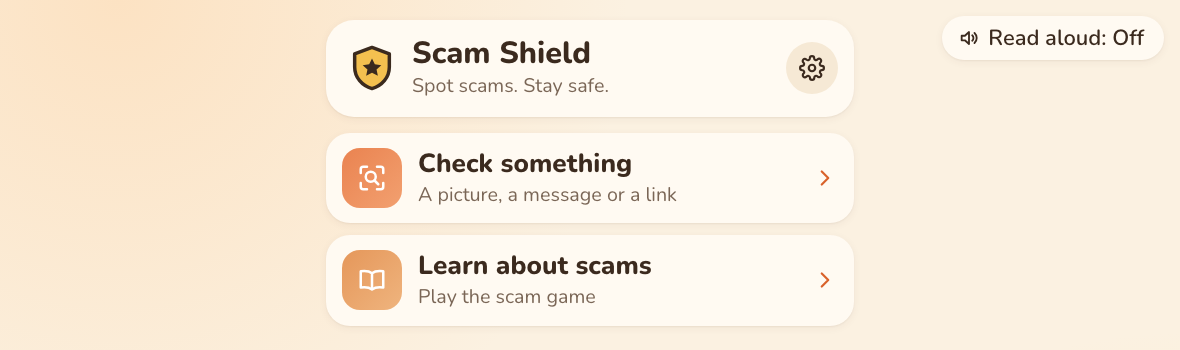
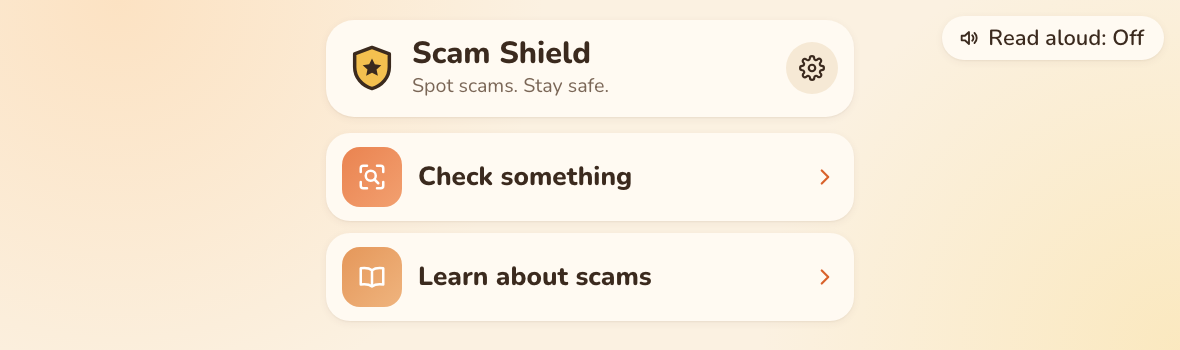
Docs: a shorter README that matches the live site
Removes the scams coming later, the open questions and the long details
(CLAUDE.md has them), adds the phone demo, the Learn screen and the
frameless scams on phones and tablets, and retakes the home screenshot
from the live site (the cards no longer have a line under them).

diff --git a/README.md b/README.md
@@ -1,28 +1,15 @@
 # Scam Shield: Stop, Check, Tell
 
-**Play it: [lukeyeh4.github.io/scam-shield](https://lukeyeh4.github.io/scam-shield/)**
+**Try it: [lukeyeh4.github.io/scam-shield](https://lukeyeh4.github.io/scam-shield/)** · [phone demo](https://lukeyeh4.github.io/scam-shield/demo.html) (the app in an iPhone frame, for showing on a computer)
 
-An app that helps kids aged 8–12 spot scams. It has two parts:
+An app that helps kids aged 8–12 spot scams, with two parts:
 
 - **Check something:** when a text, link, picture or website feels weird, kids check it with Shield Buddy and see the clues in kid words, with what to do next.
-- **Learn about scams:** a game where each scam looks like the real thing (a text from "Mom", a Google search, a YouTube Short). Kids pick what to do, see what happens, then learn the clues with **Stop, Check, Tell**.
+- **Learn about scams:** a game where each scam looks like the real thing. Kids pick what to do, see what happens, then learn the clues.
 
 ![The home screen: Check something and Learn about scams](docs/screenshots/app-home.png)
 
 **The key lesson:** don't do what the scam asks. Check it with Scam Shield, and show a grown-up.
-
-## Contents
-
-- [Stop, Check, Tell](#stop-check-tell)
-- [Check something](#check-something): [a link](#check-a-link), [a picture](#check-a-picture), [a message](#check-a-message)
-- [Learn about scams](#learn-about-scams): [how it plays](#how-it-plays), [the scams](#the-scams)
-- [Shield Buddy](#shield-buddy)
-- [For grown-ups](#for-grown-ups)
-- [Design](#design)
-- [Getting started](#getting-started) and [how it's built](#how-its-built)
-- [Open questions](#open-questions)
-
-## Stop, Check, Tell
 
 | | | In kid words |
 |---|---|---|
@@ -38,180 +25,62 @@ An app that helps kids aged 8–12 spot scams. It has two parts:
     <td width="50%"><img src="docs/screenshots/check-link-result.png" alt="A link result: This looks like a scam, with the clues Pretending to be Roblox and Words that tempt you"></td>
   </tr>
   <tr>
-    <td><b>Ask Shield Buddy.</b> Buddy asks what it is and opens the right checker. Kids can also type or say a question.</td>
-    <td><b>The result.</b> What was checked, with each clue marked and numbered, what to do, and the clues in a short list. Tap one to see why.</td>
+    <td>Shield Buddy asks what it is and opens the right checker. Kids can also type or say a question.</td>
+    <td>The result: a risk level, what to do, and the clues. Tap a clue to see why.</td>
   </tr>
 </table>
 
-Every result works the same way:
+- **A link:** checked without ever opening it on the kid's device. The address itself is checked on the device (copies of brands like rob1ox, hidden addresses, short links, betting and adult websites). Then a small server adds Google Safe Browsing, Cloudflare's filters, how new the website is and where short links really go, and Claude reads the page with fixed yes/no questions.
+- **A picture:** a screenshot or photo, plus up to two more of the same thing. Claude looks for warning signs from a fixed list (asking for a password, code, money or photos, free prizes, pretending to be someone, rushing, threats, and more) and the result draws numbered boxes around them.
+- **A message:** a pasted text, chat, email or post. Phone numbers, emails, codes and addresses are blanked out on the device first, and the words that show each warning sign are highlighted.
 
-- **A risk level, never "safe":** soft red ("This looks like a scam"), yellow ("Be careful") or green ("No clues found", with good signs), with what to do right under the heading. It always ends with "show a grown-up".
-- **Clues in kid words:** tap a clue for a one-line reason, then "Why? Ask Shield Buddy": Buddy points to where to look, explains why in two short lines, and gives a "Next time..." tip with a grown-up.
-- **The AI never writes what kids read.** It only answers fixed questions; the app's own scripted words are shown. Kids are told the checks use AI: Buddy says it's "a computer helper, not a real person", and every AI result says so.
-- **Help when it's serious:** a threat, a request for photos, or a picture Claude won't look at gets a calm "Show a grown-up right now / It's not your fault" with three steps (the picture is blurred if it may not be OK to see). "Ask Buddy about this" helps kids who already tapped, replied or sent something.
-
-### Check a link
-
-Kids paste a link (or a whole message with a link in it), and each clue is marked in the link and explained: what the trick is, and what the real website looks like. Betting, adult and pirated streaming websites are red too, headed "This isn't for kids", and by default only say that, not what's there (a grown-up can turn on "Name the type of unsafe website").
-
-It checks in three layers, and never opens the link on the kid's device:
-
-1. **The address, on the device (instant):** the real website is found with the Public Suffix List; then it looks for brand copies (rob1ox, ronlox, letters from other alphabets, roblox.com.evil.net), a real address hidden after an @ or in the path, free website makers, short links, cheap endings, tempting words and http. Fan websites of games get a gentler clue than copies of accounts and money services like PayPal. Known betting and adult websites, and adult or betting words in a website's name, are caught here too, so they're flagged even before a grown-up finishes setup.
-2. **Facts from our small server** (a Cloudflare Worker): Google Safe Browsing, Cloudflare's free DNS filters (dangerous websites, and adult ones), how new the website is, whether it exists, and where a short link really goes (that address gets every check too).
-3. **Claude reads the page** (Claude Haiku 5.5), only when nothing strong was found: fixed yes/no questions, like "Does it copy a brand?", "Does it ask for a password?", "Free prizes?", "Free paid sports or shows?", "Pop-up ads?", "Betting?", "Adult, or an 18+ age gate?". When the page can't be read (bot protection, or a page built by code that comes back empty), Claude judges the website by its address alone, from what it knows about it; websites it doesn't know get nothing, never a guess. The AI can't say a website is fine.
-
-Tested against 140 real websites (no false alarms) and 40 live phishing links (39 caught or flagged). On the device alone, 47 of 47 adult websites are caught, with no false alarms on 50 everyday websites (including Essex, Milford schools and NHS sexual health).
-
-### Check a picture
-
-<img src="docs/screenshots/check-picture-result.png" alt="A picture result: the YouTube Short with its clues highlighted, and the clues Someone rushing you, A fake channel name and A free prize" width="50%">
-
-*The practice check in the game, where the clues are the scam's own. A real picture check draws numbered boxes around each warning sign.*
-
-Kids take a screenshot or photo of anything that worries them (a text, a game chat, an ad, a website, a pop-up, a short video), with up to two more of the same thing (like a video's comments or the shop it links to), and can say where it's from (someone they don't know, a friend, a game, an ad). Claude looks for warning signs from a fixed list: asking for a password, code, money or photos, free prizes, pretending to be a company or family, rushing, threats, secrets, downloads, sad stories used to sell, product photos that may not be the real thing, easy money and crypto offers, trades where you go first, "your account is in trouble" tricks, and betting. A stranger getting too personal (compliments, asking your age or if your parents are home) gets "Show a grown-up right now", even before they ask for anything. Any other trick Claude spots is shown as "Something else looks wrong", in the app's own words: Claude's description of it is never shown to kids. A sad story on its own is only "Be careful" (real people share sad stories), but one that also rushes you or moves you to another app is a sympathy scam. Links in the picture go through the link checker.
-
-The result shows each picture with numbered boxes around the warning signs, and a magnifier to see it big.
-
-Tested on 28 made-up screenshots (including seven sad stories, a stranger getting too personal, a trick trade, a fake "you've been reported" message, a crypto post, a betting ad and a chain message) and 48 made-up photos of screens (angled, glare, dim): every scam caught, no false alarms, and look-alike links (dlscord, rnicrosoft, paypa1) copied exactly.
-
-### Check a message
-
-<img src="docs/screenshots/check-message-result.png" alt="A message result: the Mom text with three highlighted, numbered clues" width="50%">
-
-Kids paste a text, chat, email or post. Phone numbers, emails, codes and addresses are blanked out on the device before anything is sent. Claude names the same warning signs as for pictures and quotes the words that show them, which are highlighted and numbered in the message. Tested on 14 made-up messages: every scam caught, no false alarms.
+Every result has a risk level, never "safe": red "This looks like a scam", yellow "Be careful", or green "No clues found". It always ends with showing a grown-up. Kids only ever read the app's own words; the AI just answers fixed questions. A threat, a request for photos or a stranger getting too personal gets a calm "Show a grown-up right now" with three simple steps.
 
 ## Learn about scams
 
 ![A scam text on an iPhone, with Shield Buddy and the three choices](docs/screenshots/game-scam-texts.png)
 
-### How it plays
+| Scam | Looks like | Teaches |
+|---|---|---|
+| **It's Mom, New Number** | iPhone text messages | Pick a family code word; never share a code sent to your phone |
+| **Free Robux** | Google in Safari on an iPad | Never type your password on a site from an ad or a link |
+| **Famous Giveaway** | A YouTube Short | Free prizes from strangers are a trick; even check marks can be faked |
 
-Every scam follows the same steps, so kids always know what's coming.
+Each scam plays the same way:
 
-<table>
-  <tr>
-    <td width="50%"><img src="docs/screenshots/game-scam-search.png" alt="Google search results with a fake sponsored ad"></td>
-    <td width="50%"><img src="docs/screenshots/game-outcome.png" alt="The outcome screen after a choice"></td>
-  </tr>
-  <tr>
-    <td><b>1. The scam.</b> A realistic fake screen with red flags planted in it. Shield Buddy explains what's happening, without hinting. Then: <i>Do it</i>, <i>Check with Scam Shield</i> or <i>Tell an adult</i>. Check opens the matching checker with the scam already in it.</td>
-    <td><b>2. What happened.</b> Do it is red ("Uh oh"); Check and Tell are green ("Scam stopped!"). "What if you had…" cards show the other two paths.</td>
-  </tr>
-  <tr>
-    <td><img src="docs/screenshots/game-spot-the-clues.png" alt="Spot the clues: a checklist of three clues and a Hint button"></td>
-    <td><img src="docs/screenshots/game-recap.png" alt="The recap highlighting a red flag on the phone"></td>
-  </tr>
-  <tr>
-    <td><b>3. Spot the clues.</b> Kids tap the red flags from a short checklist. Buddy answers every tap kindly, and the <i>Hint</i> button nudges toward the next clue.</td>
-    <td><b>4. Stop, Check, Tell.</b> The scam comes back and each red flag lights up while Buddy explains it, then what to do next time (like a family code word).</td>
-  </tr>
-  <tr>
-    <td><img src="docs/screenshots/game-summary.png" alt="The summary card: Remember, and Make sure to avoid"></td>
-    <td><img src="docs/screenshots/game-end.png" alt="The end screen with badges"></td>
-  </tr>
-  <tr>
-    <td><b>5. Remember.</b> One thing to do next time, and what to avoid.</td>
-    <td><b>6. The end.</b> Badges earned along the way, and a tip from every scam.</td>
-  </tr>
-</table>
+1. **The scam** appears on a realistic fake screen, and Shield Buddy explains what's happening without hinting. Kids choose *Do it*, *Check with Scam Shield* or *Tell an adult*.
+2. **What happened:** Do it ends in "Uh oh"; Check and Tell stop the scam. "What if you had…" cards show the other choices.
+3. **Spot the clues:** kids tap the red flags on the screen, with a *Hint* button.
+4. **Stop, Check, Tell:** each red flag lights up while Buddy explains it, then one thing to do next time.
 
-### The scams
-
-| | Scam | Looks like | Teaches |
-|---|---|---|---|
-| 1 | **It's Mom, New Number** | iPhone text messages | Pick a family code word; never share a code sent to your phone |
-| 2 | **Free Robux** | Google in Safari on an iPad | Never type your password on a site from an ad or a link |
-| 3 | **Famous Giveaway** | A YouTube Short | Free prizes from strangers are a trick; even check marks can be faked |
-| 4 | Account Locked! *(coming later)* | Email inbox | |
-| 5 | Mega Deal *(coming later)* | Shopping site pop-up | |
-
-<img src="docs/screenshots/game-scam-shorts.png" alt="A fake giveaway on YouTube Shorts" width="50%">
+The Learn screen shows how many scams are done, lets kids pick any scam, and shows the badges they've earned. On computers the scams appear on a fake phone or iPad; on phones and tablets they fill the screen, as if you were in the app yourself.
 
 ## Shield Buddy
 
-A friendly yellow shield with a face and little hands, who guides each scam in short speech bubbles. It has six moods (`happy`, `curious`, `thinking`, `worried`, `cheering`, `neutral`) and a little move for each.
-
-- **No hints before the choice.** Kids find the clues themselves.
-- **Not a trusted adult.** It always sends kids to a real grown-up.
-- **Scripted lines.** Everything Buddy says in the game and the checkers is written in the app. The only exception is its answers to questions kids type, which the AI writes (only about scams and staying safe), are checked in code, and are always followed by a scripted line pointing to a grown-up.
-- **Read aloud:** a "Read aloud" switch in the top corner (off by default) reads Buddy's lines in its own voice, with the device's voice as a backup; each bubble waits until the voice has finished.
-- **A conversation that carries on:** in Ask Shield Buddy, leaving to check something and coming back continues the same chat. Buddy greets once, then reacts to what the check found, in a different way each time.
+A friendly yellow shield who guides every scam and the checkers. It never hints before a choice, and it always sends kids to a real grown-up. Everything it says is written in the app, except its answers to questions kids type: those come from AI, only about scams and staying safe, are checked in code, and are always followed by a line pointing to a grown-up. **Read aloud** (off by default, in the top corner) reads Buddy's lines in its own voice.
 
 ## For grown-ups
 
-<img src="docs/screenshots/grown-ups-settings.png" alt="The grown-ups settings: Checks, Shield Buddy, Results, History, Grown-up PIN and Family code word" width="50%">
+Behind the gear on the home screen, past a parent gate (a grown-up PIN, or a sum that changes every time):
 
-Behind the gear on the home screen, past a parent gate (a grown-up PIN, or a sum that changes every time until one is set):
+- **Checks:** nothing a child checks or asks is sent anywhere until a grown-up turns this on.
+- **Shield Buddy:** whether Buddy answers typed questions, and whether the child can ask out loud.
+- **Results:** "Name the type of unsafe website" (betting, adult, pirated streaming), or just say it isn't for kids.
+- **History:** the child's recent checks, kept only on this device, never the pictures or messages.
+- **Grown-up PIN** and **Family code word** advice.
 
-- **Checks:** nothing a child checks or asks is sent anywhere until a grown-up turns this on. "What is sent, and where" explains each part in plain words.
-- **Shield Buddy:** whether Buddy answers typed questions (with AI, only about scams and staying safe) and whether the child can ask out loud.
-- **Results:** whether to name the type of unsafe website (betting, adult, pirated streaming) or just say it isn't for kids.
-- **History:** the child's recent checks: when, which checker, the result and the clues found (and a link's website). It's kept only on the device and never includes the pictures or messages.
-- **Grown-up PIN:** set, change or remove it. A wrong PIN shakes, like a phone's lock screen.
-- **Family code word:** advice only. Nothing is saved.
+Each home can check up to 40 pictures and 100 messages a day.
 
-Each home can check 40 pictures and 100 messages a day.
-
-## Design
-
-Warm and friendly, so it feels safe to use:
-
-- **Cream colours:** a warm cream background with soft peach and yellow glows, off-white cards with big rounded corners and gentle shadows, dark brown text, and orange buttons. Icon tiles use warm tones that sit close together (orange, peach, gold, amber), so nothing clashes.
-- **One rounded font:** Nunito, friendly but very easy to read.
-- **Big, calm screens:** few boxes and few words, one main button, simple line icons.
-- **Fake screens stay real:** the scam screens keep the real phone colours and font, so they look like what kids actually see.
-
-Rules for every screen:
-
-- **Simple words:** about an 8-year-old reading level, one idea per screen, big buttons.
-- **Realistic, not scary:** consequences feel real but never graphic.
-- **No shame:** "Here's what to watch for next time," never "You failed."
-- **Real-looking, but harmless:** fake screens copy real apps, but nothing on them is a working link, button or form.
-- **No emojis in the game's own buttons and labels.** They only appear inside the fake screens.
-
-## Getting started
+## Running it
 
 ```sh
 npm install
 npm run dev      # play it locally
-npm run build    # type-check and build static files for hosting
+npm run build    # type-check and build for hosting
 npm run lint
-npm test         # check every scenario file, the highlighting, the link, picture and message checks, the chat script and the parent gate
+npm test
 ```
 
-The server is in `worker/` (`npm install`, then `npm run dev` or `npm run deploy` there). With it running, `npm run test-pictures` and `npm run test-messages` there send the made-up test screenshots and messages through Claude (real calls, a few cents in all). Its keys (Google Safe Browsing, Claude) are secrets: locally in `worker/.dev.vars`, which git ignores, and on Cloudflare with `npx wrangler secret put`. Never put them in a committed file; this repo is public.
+React + TypeScript + Vite, hosted on GitHub Pages: every push to `main` rebuilds the site. The server in `worker/` is a Cloudflare Worker that checks links, pictures and messages, answers Buddy's questions and makes its voice; it keeps nothing it's sent. Run it with `npm install` and `npm run dev` there. Its keys are secrets: keep them in `worker/.dev.vars` (ignored by git) and on Cloudflare with `npx wrangler secret put`, never in a committed file, since this repo is public.
 
-While running `npm run dev`, a **Dev** button in the corner jumps to any screen, has a fast mode that skips Buddy's typing, and lets you try other colour palettes and fonts. It's left out of the build and must be removed before shipping (see `PROJECT.md`).
-
-## How it's built
-
-React + TypeScript + Vite, as a web app for tablets. Every push to `main` rebuilds the app and puts it on GitHub Pages (`.github/workflows/deploy.yml`). The server is a Cloudflare Worker at scam-shield-links.lukeyeh4.workers.dev (its address is in `.env.production`): it checks links, pictures and messages, answers Buddy's questions and makes its voice, keeps nothing it's sent, and allows 20 checks a minute per person, plus daily limits for pictures and messages.
-
-The game is **data-driven**: every scam uses the same screens, and each one is just a JSON file in `scenarios/` (format: `Scenario` in `src/types.ts`). A scenario picks a fake screen (`sms`, `search`, `shorts`, …), fills in its content, and lists Buddy's lines, the outcomes, and the red flags for the recap and Spot the clues.
-
-```
-scenarios/        one JSON file per scam (later/ holds scams 4 and 5)
-shield_buddy/     Buddy's artwork, one image per mood
-public/images/    logos and photos on the fake screens
-src/screens/      menu, scam, outcome, Spot the clues, recap, end screen
-src/mockups/      fake iPhone and iPad screens: texts, Safari, Google, YouTube Shorts
-src/buddy/        Shield Buddy and its speech bubbles
-src/badges.ts     badges, saved on the device
-src/chat/         Ask Shield Buddy: the chat, its script, and the conversation so far
-src/tools/        the checkers: linkCheck.ts (the address), brands.ts (official websites),
-                  linkLookup.ts (the server's facts as clues), pictureLookup.ts and
-                  messageLookup.ts (pictures and messages), the result screen
-src/screens/GrownUpsScreen.tsx  the parent gate and settings (parentGate.ts: the PIN)
-src/readAloud.ts  read-aloud in Buddy's voice
-worker/           the server: link lookups, Claude reading pages, pictures and messages,
-                  Buddy's answers and voice, and the daily limits
-docs/screenshots/ the pictures in this README
-```
-
-`PROJECT.md` tracks what's next. `CLAUDE.md` has the full details for working on the code.
-
-## Open questions
-
-- Keep real brands and people (Apple, Google, Roblox, YouTube, MrBeast) in scams 1–3, or switch to made-up names?
-- Read-aloud: Buddy now has one voice everywhere (Google Cloud Text-to-Speech, with the device's voice as a backup). Which voice suits Buddy best? Where should the switch go (it covers the home screen's gear on phones)?
-- Add VirusTotal (about 90 security companies' verdicts) to catch sites like vmsvedaweb.com that web filters block but Google doesn't list?
+Each scam is a JSON file in `scenarios/` that fills in the same screens. `PROJECT.md` tracks what's next, and `CLAUDE.md` has the full details for working on the code.
